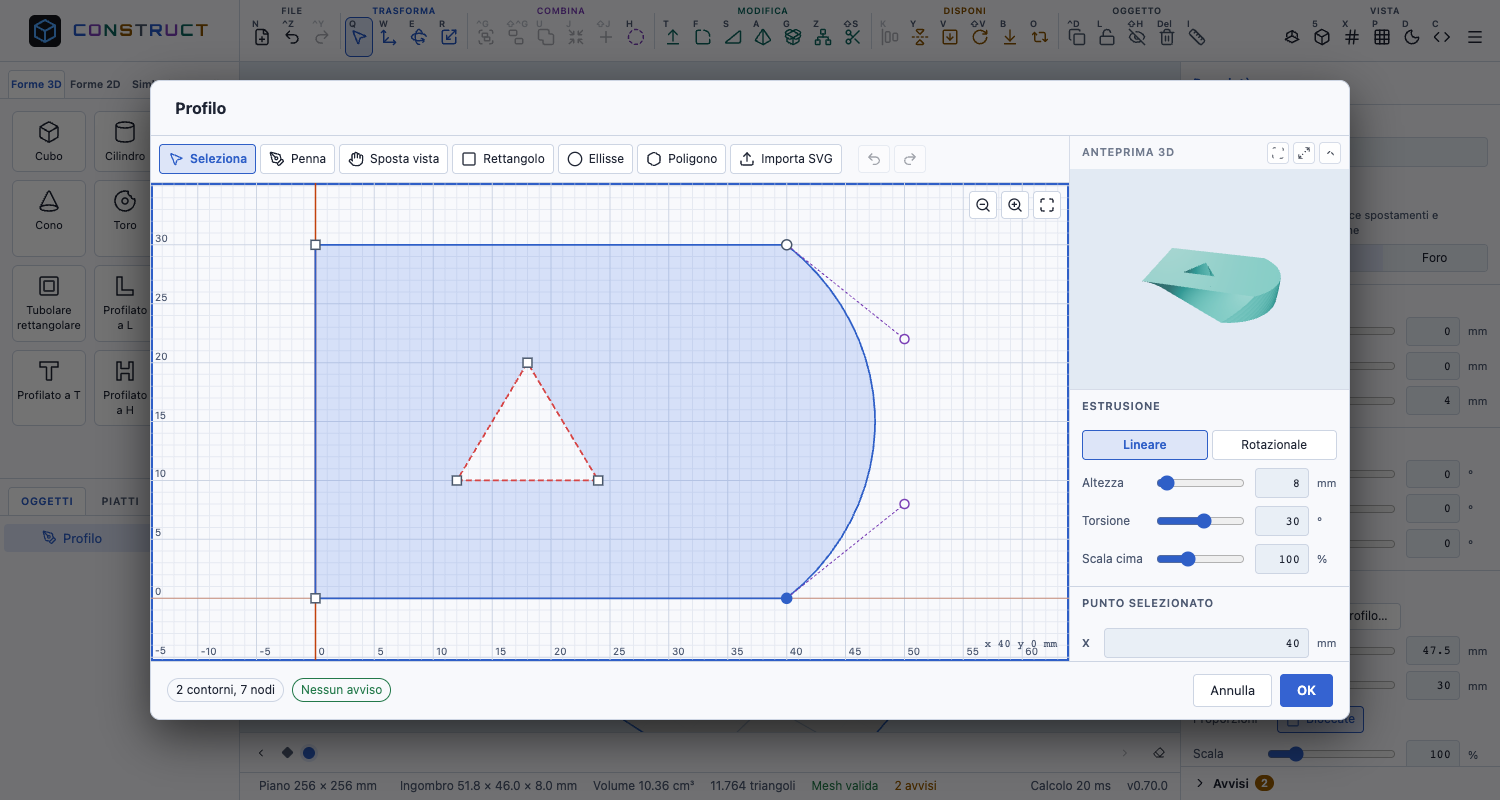
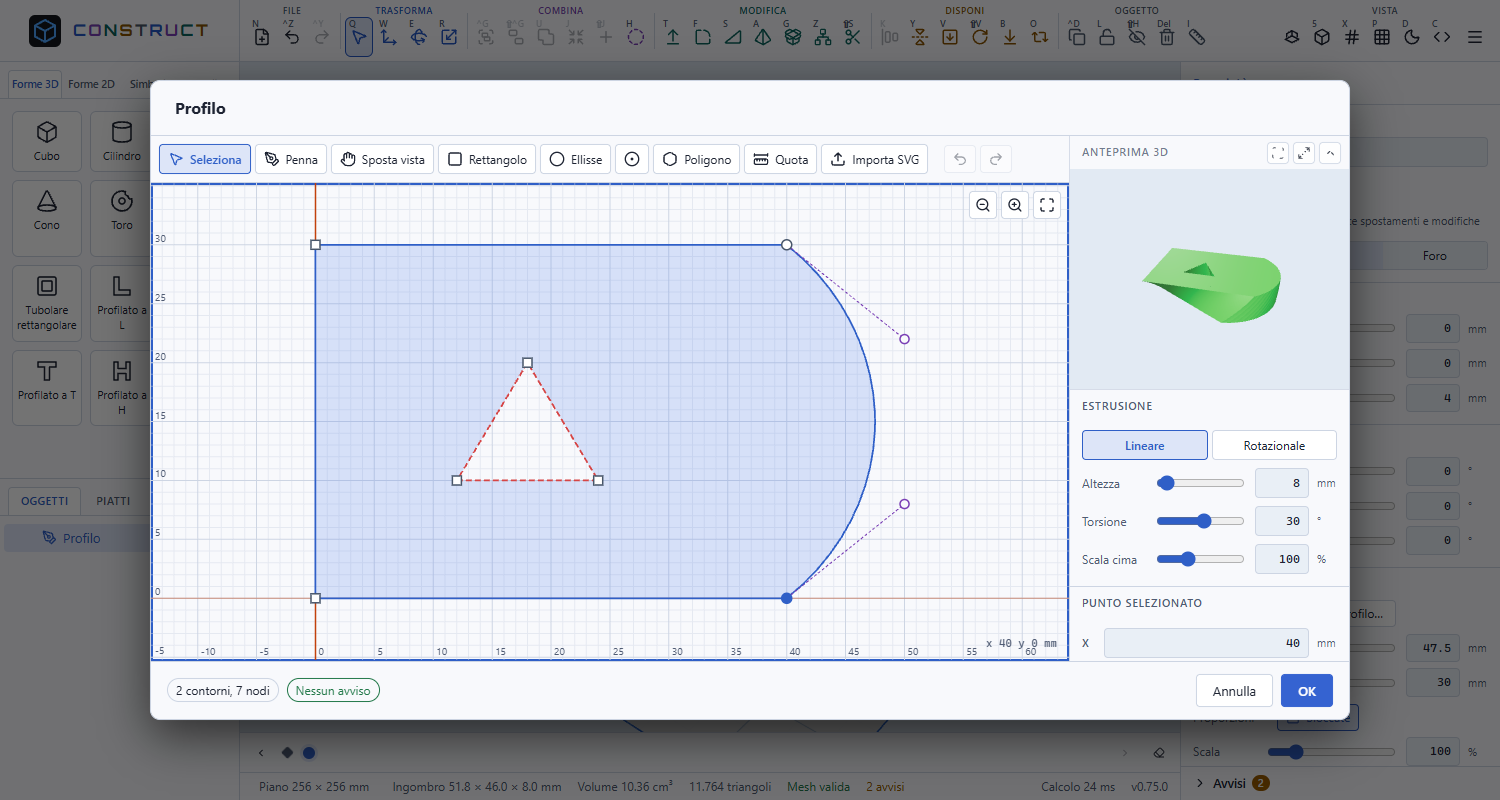
chore(release): 0.75.0
Versione, CHANGELOG e immagini del Profilo per quote, vincoli, Penna digitata, cerchio quotato e parametri.

diff --git a/CHANGELOG.md b/CHANGELOG.md
@@ -18,6 +18,19 @@ I messaggi di commit seguono i [Conventional Commits](https://www.conventionalco
 
 ## [Non rilasciato]
 
+## [0.75.0] - 2026-10-24
+
+### Aggiunto
+- **Quote e vincoli nella modale Profilo** (in stile Fusion 360), dallo studio 0.72.0: il risolutore di vincoli è ora collegato all'app. Strumento **Quota** (`D`) per distanza (allineata, orizzontale, verticale) e **angolo** su due lati, con il valore digitato sull'etichetta; vincoli **orizzontale, verticale, fisso, coincidente, parallelo, perpendicolare, uguale, punto medio, simmetrico, collineare**; stato del disegno (sottovincolato, completamente vincolato, sovravincolato) con i gradi di libertà residui nel piede, colori di stato e elenco di quote e vincoli nella barra laterale. Un vincolo che renderebbe il disegno in conflitto o ridondante si rifiuta con un avviso e si può aggiungere come **quota di riferimento** (valore tra parentesi, non vincola). Trascinando un nodo il resto del disegno lo segue rispettando i vincoli, con un solo passo di Annulla.
+- **Posizione delle quote**: ogni quota nasce **fuori dal disegno e senza sovrapporsi alle altre**; si sposta trascinando la linea di quota o l'etichetta (un passo di Annulla), e «Riposiziona quote» ridispone tutto. Posizione e valore si salvano nel progetto.
+- **Raggio di raccordo per nodo** sugli spigoli tra due segmenti retti, con anteprima e codice OpenSCAD identici al disegno.
+- **Penna con lunghezza e angolo digitati** (una cifra o Tab apre i campi), con le quote create già posizionate; **vincoli automatici** (orizzontale, verticale, perpendicolare, coincidente, rettangolo con i lati dritti) disattivabili dalla casella «Vincoli automatici»; selezione multipla con raggio comune e «Rendi uguali» per più quote; Alt+clic sceglie un segmento.
+- **Cerchio quotato** (`O`): fori circolari con la quota Ø e il centro posizionabile; **parametri locali ed espressioni** nelle quote e nel raggio (`larghezza / 2 + 3`), con elenco dei parametri nella barra laterale.
+- Avviso con il fattore quando si ridimensiona un Profilo quotato: le quote non si aggiornano da sole.
+
+### Modificato
+- I nodi del Profilo hanno un identificativo stabile; il commento `construct:path` e la bozza passano a `v:2` solo quando ci sono vincoli, parametri, cerchi o raggi di raccordo (altrimenti restano `v:1`, leggibili anche dalle versioni precedenti).
+
 ## [0.74.0] - 2026-10-24
 
 ### Aggiunto
